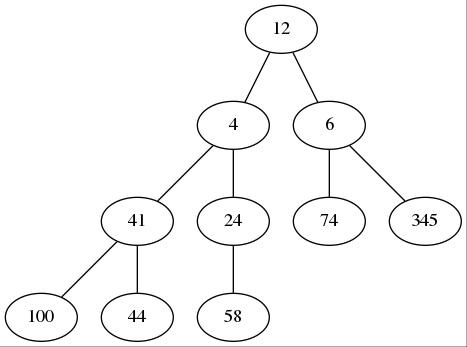
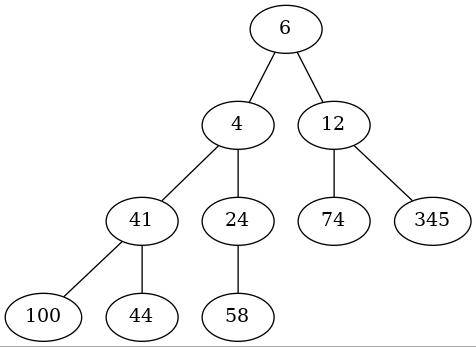
fin des fct tas binaire avec struct particuliere

diff --git a/tas_binaire/mathieu/tas_binaire.c b/tas_binaire/mathieu/tas_binaire.c
@@ -21,24 +21,45 @@ int main()
     tas_binaire_t *tas = NULL;
 
     tas = creer_tas_b(tab_v);
-printf("\n\n tas cree\n\n\n");
+    printf("\n\n tas cree\n\n\n");
 
     /*
     ajouter_elt(tas, 4);
-    ajouter_elt(tas, 999);
-    ajouter_elt(tas, 60);
-    */
     fichier_graphiz(tas);
     system("dot -Tjpg graph_tas.dot -o img.jpg");
-    system("eog ./img.jpg");
+    system("eog ./img.jpg 2> /dev/null");
+    printf("\n\n fin ajout 4\n");
 
-    printf("\n\n\n\n\n debut retirage");
-    printf("valeur retiree %d\n", retirer_elt(tas));
+    ajouter_elt(tas, 999);
+    fichier_graphiz(tas);
+    system("dot -Tjpg graph_tas.dot -o img.jpg");
+    system("eog ./img.jpg 2> /dev/null");
+    printf("\n\n fin ajout 999\n");
+
+    ajouter_elt(tas, 60);
+    fichier_graphiz(tas);
+    system("dot -Tjpg graph_tas.dot -o img.jpg");
+    system("eog ./img.jpg 2> /dev/null");
+    printf("\n\n fin ajout 60\n");
+*/
+
+    //printf("\n\n\n\n\n debut retirage");
+    //printf("valeur retiree %d\n", retirer_elt(tas));
+
     affficher_tab(tas->arbre);
 
     fichier_graphiz(tas);
     system("dot -Tjpg graph_tas.dot -o img.jpg");
-    system("eog ./img.jpg");
+    system("eog ./img.jpg 2> /dev/null");
+
+    modifier_cle(tas, 3, -31);
+
+    affficher_tab(tas->arbre);
+
+    fichier_graphiz(tas);
+    system("dot -Tjpg graph_tas.dot -o img.jpg");
+    system("eog ./img.jpg 2> /dev/null");
+
     return 0;
 }
 
@@ -82,7 +103,7 @@ tas_binaire_t *creer_tas_b(int tab_v[NB_ELT_MAX])
             /*
             fichier_graphiz(tas);
             system("dot -Tjpg graph_tas.dot -o img.jpg");
-            system("eog ./img.jpg");
+            system("eog ./img.jpg 2> /dev/null");
             */
         }
     }
@@ -147,9 +168,11 @@ void entasser(tas_binaire_t *tas, int i)
     int l = f_g(i);
     int r = f_d(i);
     int max = i;
+    /*
     fichier_graphiz(tas);
-    system("dot -Tjpg graph_tas.dot -o img.jpg");
-    system("eog ./img.jpg");
+    system("dot -Tjp\ng graph_tas.dot -o img.jpg");
+    system("eog ./img.jpg 2> /dev/null");
+    */
     if (l < tas->nb_elt && tas->arbre[l] < tas->arbre[i])
     {
         max = l;
@@ -195,14 +218,29 @@ void fichier_graphiz(tas_binaire_t *tas)
     fprintf(fichier, "graph { ");
     while (k < tas->nb_elt - 1)
     {
-        if (tas->arbre[k] > 0 && tas->arbre[f_g(k)] > 0 && f_g(k) < NB_ELT_MAX)
+        if (tas->arbre[k] > 0 && tas->arbre[f_g(k)] > 0 && f_g(k) < tas->nb_elt)
             fprintf(fichier, "\n\t%d--%d", tas->arbre[k], tas->arbre[f_g(k)]);
 
-        if (tas->arbre[k] > 0 && tas->arbre[f_d(k)] > 0 && f_d(k) < NB_ELT_MAX)
+        if (tas->arbre[k] > 0 && tas->arbre[f_d(k)] > 0 && f_d(k) < tas->nb_elt)
             fprintf(fichier, "\n\t%d--%d", tas->arbre[k], tas->arbre[f_d(k)]);
         k++;
     }
     fprintf(fichier, "\n} ");
 
     fclose(fichier);
+}
+
+void modifier_cle(tas_binaire_t *tas, int indice, int val_ajoutee)
+{
+    if (indice < tas->nb_elt)
+    {
+        printf("cle modifie : %d + %d = %d\n", tas->arbre[indice], val_ajoutee, tas->arbre[indice] + val_ajoutee);
+        tas->arbre[indice] += val_ajoutee;
+        if (val_ajoutee < 0)
+            detasser(tas, indice);
+        else
+            entasser(tas, indice);
+    }
+    else
+        printf("modification impossible : indice trop petit\n");
 }

diff --git a/tas_binaire/mathieu/tas_binaire.h b/tas_binaire/mathieu/tas_binaire.h
@@ -14,7 +14,7 @@ dot -Tjpg graph_tas.dot -o img.jpg
 
 fichier_graphiz(tas);
 system("dot -Tjpg graph_tas.dot -o img.jpg");
-system("eog ./img.jpg");
+system("eog ./img.jpg 2> /dev/null");
 
 */
 
@@ -34,16 +34,15 @@ int f_d(int i);
 int f_g(int i);
 int pere(int i);
 
-
-void ajouter_elt(tas_binaire_t*,int);
-int retirer_elt(tas_binaire_t*);
-
+void ajouter_elt(tas_binaire_t *, int);
+int retirer_elt(tas_binaire_t *);
 
 void permute_a_b(int *a, int *b);
 
 void entasser(tas_binaire_t *tas, int i);
 void detasser(tas_binaire_t *tas, int i);
 
+void modifier_cle(tas_binaire_t *tas, int indice, int val_ajoutee);
 
 void fichier_graphiz(tas_binaire_t *tas);
 
